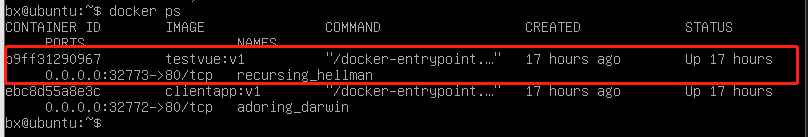
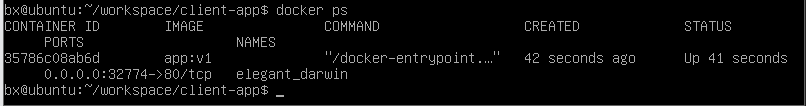
doc: docker 部署笔记更新

Changed region(s): [[0.0, 0.0, 1.0, 1.0], [0.8375, 0.1415, 0.9305, 0.283]]

diff --git a/部署/docker/vue项目部署到docker.md b/部署/docker/vue项目部署到docker.md
@@ -108,7 +108,6 @@ default.conf 配置文件内容如下：
 server {
     listen       80;
     server_name   localhost;
-    # server_name   49.235.160.132; # 修改为docker服务宿主机的ip
 
     # uding gzip
     gzip on;
@@ -145,20 +144,21 @@ server {
 ```
 server {
     listen       80;
-    server_name   49.235.160.132; # 修改为docker服务宿主机的ip
+    server_name   localhost;
+    # server_name   49.235.160.132; # 修改为docker服务宿主机的ip
 
     location / {
         root   /usr/share/nginx/html;
         index  index.html index.htm;
         try_files $uri $uri/ /index.html =404;
     }
-    location /api{ # pro-api是vue项目里.env.production里的地址
+    location /api{ # api是vue项目里.env.production里的地址
         proxy_pass 1.1.1.1;  # 这里写的是你后端接口的地址
     }
 
     error_page   500 502 503 504  /50x.html;
     location = /50x.html {
-        root   html;
+        root   /usr/share/nginx/html;
     }
 }
 ```
@@ -172,10 +172,12 @@ LINUX 中部署目录结构如下：
 打包镜像
 
 ```
-docker build -t vuetest:v1 .
+docker build -t app:v1 .
 ```
 
-意思是当前目录的 Dockerfile 创建了一个镜像，创建镜像的仓库是 vuetest, 标签是 v1。
+![tu](./img/21.png)
+
+意思是当前目录的 Dockerfile 创建了一个镜像，创建镜像的仓库是 app, 标签是 v1。
 
 查看镜像
 
@@ -183,13 +185,17 @@ docker build -t vuetest:v1 .
 docker images
 ```
 
+![tu](./img/22.png)
+
 复制代码命令执行后，可以查看镜像信息。
 
 运行容器
 
 ```
-docker run -P -d vuetest:v1
+docker run -P -d app:v1
 ```
+
+![tu](./img/23.png)
 
 复制代码查看端口信息
 
@@ -199,9 +205,12 @@ docker ps
 
 ![tu](./img/13.png)
 
-访问 localhost:32773，其中 32773 是通过上面查看端口命令中查到的
+访问 localhost:32775，其中 32775 是通过上面查看端口命令中查到的
 
-展示效果如下图：  
+Linux 本机访问展示效果如下图：  
+![tu](./img/24.png)
+
+也可通过本地 ip 访问展示效果如下图：
 ![tu](./img/14.png)
 
 部署完成！
